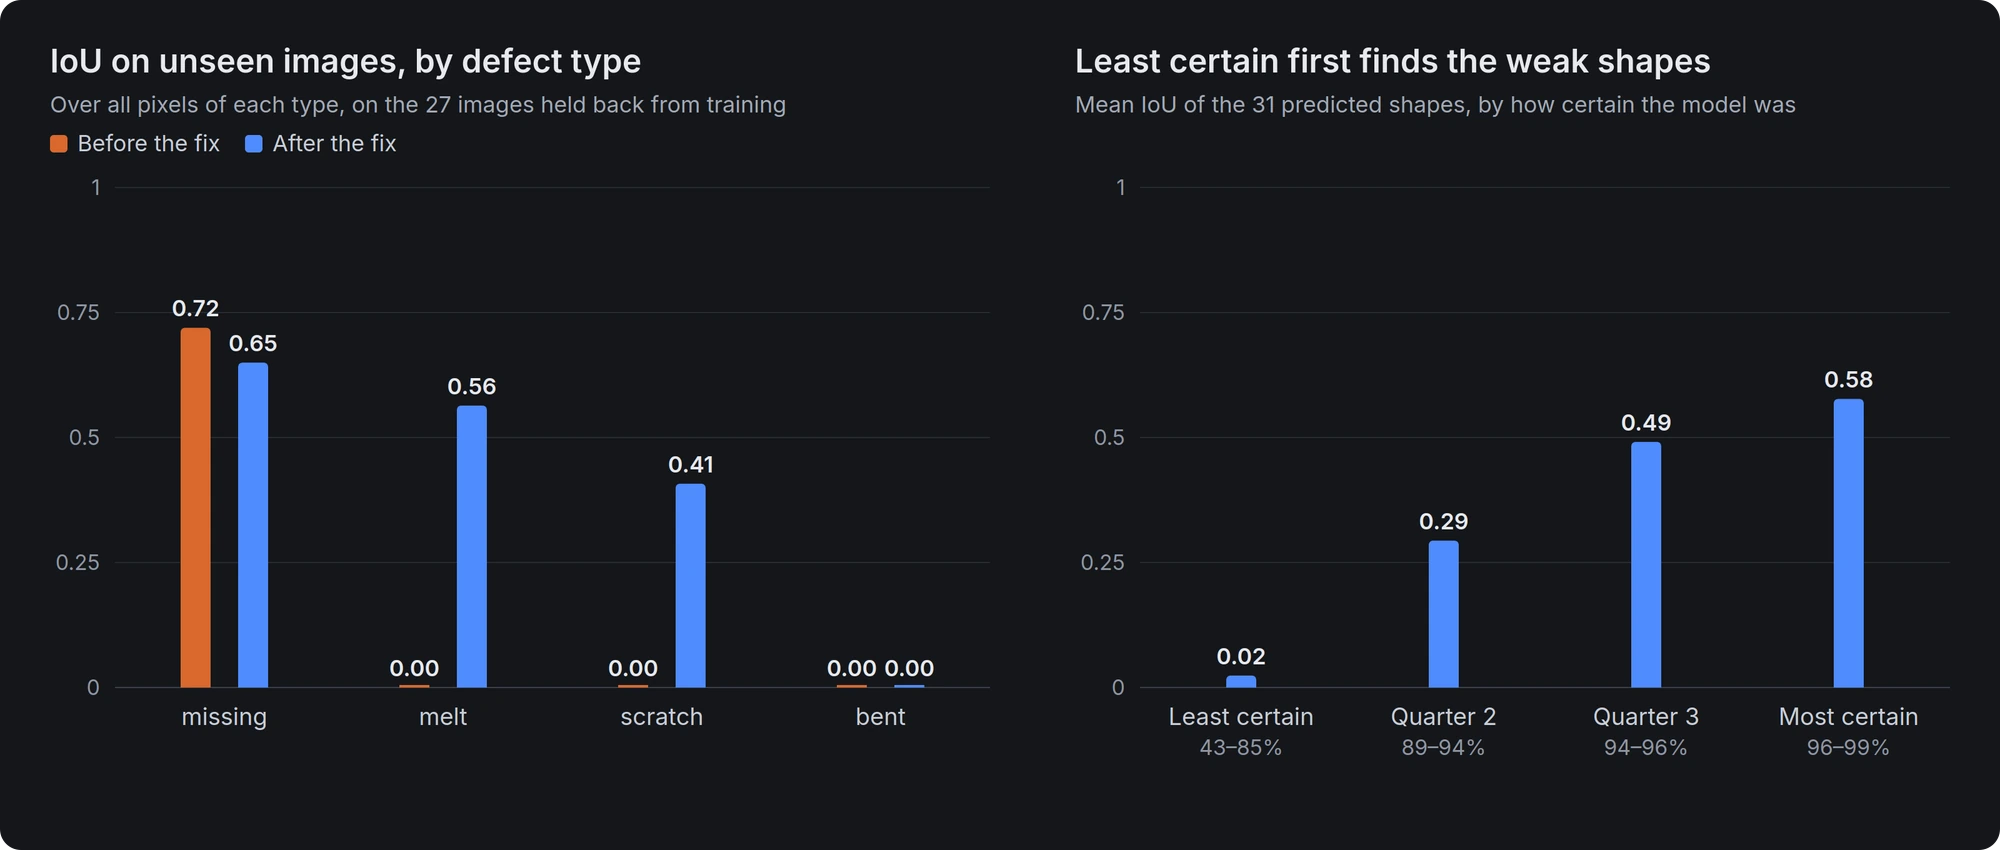
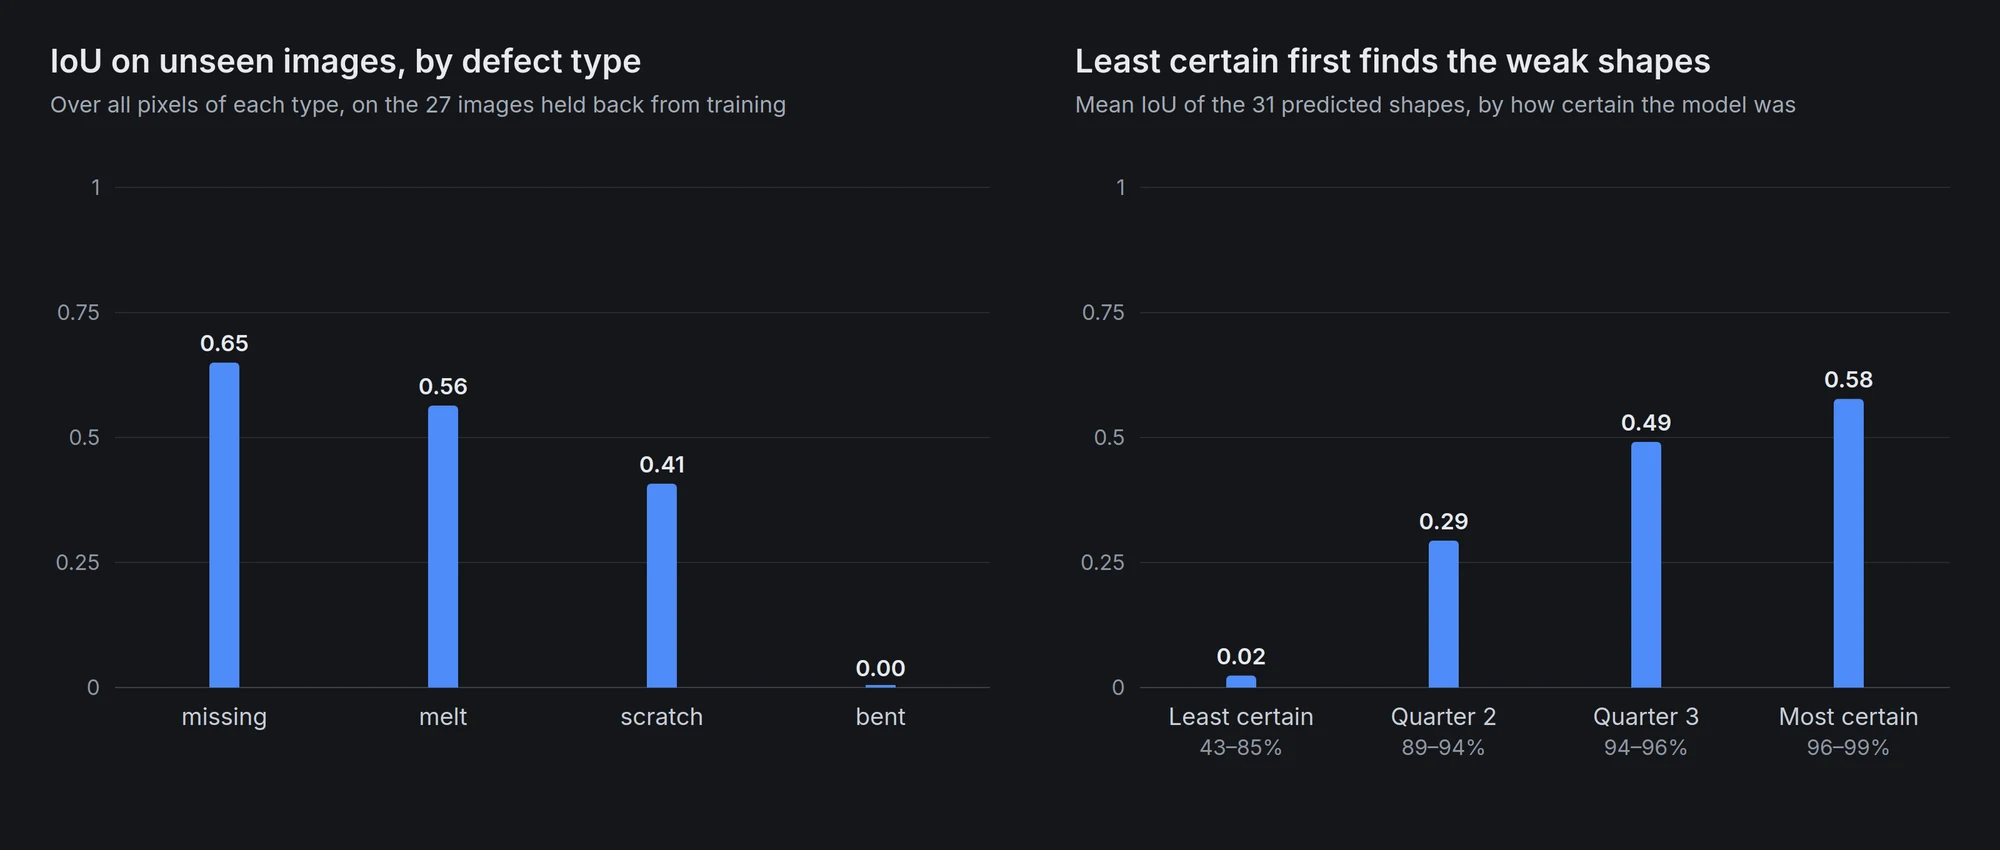
Keep current results on the README and move the fix history to the docs
The page now reports what the model does, with what it gets wrong. The
figures are redrawn from the same run, without the run from before the fix.

The softmax and tiling story, with its before/after table and figures,
moves to docs/demo. The MKL crash moves to the changelog with its numbers,
next to a new entry for the tiling fix, which had none.

diff --git a/README.md b/README.md
@@ -66,42 +66,24 @@ Seamline is an Electron app: a React window, a Node main process, and a Python e
 - **Training goes through mySegLib.** The engine turns LabelMe JSON into masks and tiles, then trains through the library's `scripts/train.py`. The library also works on its own from YAML configs and the command line: see the [library guide](docs/LIBRARY.md).
 - **Labels are hard to lose.** Each save names its own folder and goes through one ordered queue, the last edit is flushed before the window closes, and a label file that can't be read is flagged and never written over.
 - **Geometry checked against an independent model.** The brush and eraser merge and cut polygons with Clipper. [A seeded test](app/e2e/geometry.spec.ts) runs 150 random paint and erase strokes and checks over 10,000 points against an independent model.
-- **A crash only some CPUs hit.** Local training died at random on one AVX-only Xeon: 6 of 12 runs. The cause was a race in MKL's first vector-math call. One single-threaded call at import brought real runs to 0 of 30, and a stress loop to 0 of 6000. The obvious workaround, `MKL_ENABLE_INSTRUCTIONS=AVX`, only hides it: the same loop still crashed 578 times.
 
 ## Tested on real images
 
-The screenshots, the demo and the numbers here come from real runs on circuit-board photos from the [VisA dataset](https://github.com/amazon-science/spot-diff): four defect types, 64 labelled images, and 27 held back that the model never saw. The model is a Unet with a ResNet-34 encoder, trained through the app on a GTX 1080 Ti. The scripts and results are in [`docs/demo`](docs/demo/README.md).
+The screenshots, the demo and these numbers come from real runs on circuit-board photos from the [VisA dataset](https://github.com/amazon-science/spot-diff): four defect types, 64 labelled images, and 27 held back that the model never saw. The model is a Unet with a ResNet-34 encoder, trained through the app on a GTX 1080 Ti. It's one run on a small set, so read the numbers as rough. The scripts and results, and what these runs changed in the training code, are in [`docs/demo`](docs/demo/README.md).
 
-Those runs found two silent bugs that synthetic tests had never shown:
+On the 27 unseen images, all with defects, the model found 24 of the 55 defects (at least half of each covered), proposed nothing on 6 images, and reached a mean IoU of 0.41 across the four defect types. That IoU is over all pixels of each type. The app's Best IoU of 0.669 reads higher because it's on validation tiles and averages background in.
 
-1. **Softmax applied twice.** The configs put softmax on the model's output, and the losses apply it again. Even a perfect prediction then cost 0.30 on the combined focal and Dice loss, and no pixel could look more than 40% certain. Validation loss sat just above that floor, at 0.315, and quality later collapsed.
-2. **Part of each image ignored.** Tiling dropped any leftover strip narrower than half a tile. On these 1404×1070 photos, 30% of every image never reached training, and on a 1500×1500 image it would be 53%.
+**Mostly right when it proposes.** Of the 31 proposals, 24 are on a defect and the right type, 3 are on a defect but the wrong type, and 4 are mostly off any defect. On 30 defect-free boards, it proposed only 1 shape.
 
-Both are fixed, with tests.
-
-![Training curves from the app: before the fix, quality collapses at epoch 24; after it, quality climbs and holds](docs/media/training-curves.webp)
-
-The table isolates the softmax fix on the 27 unseen images. Both models have the tiling fix and the same data and training settings. It's one run each, so small differences mean little.
-
-| On the 27 unseen images | Before | After |
-|---|---:|---:|
-| Real defects found (at least half covered) | 2 of 55 | **24 of 55** |
-| Images with no proposal at all | 25 of 27 | 6 of 27 |
-| Mean IoU across the four defect types | 0.18 | **0.41** |
-
-The IoU here is over all pixels of each type. The app's Best IoU of 0.669 reads higher because it's on validation tiles and averages background in.
-
-**Few false alarms.** Of the 31 proposals after the fix, 24 are on a defect and the right type, 3 are on a defect but the wrong type, and 4 are mostly off any defect. On 30 defect-free boards, it proposed only 1 shape.
-
-![The same unseen images with true labels, the model before the fix and the model after it](docs/media/before-after.webp)
+![The same unseen images with true labels and the model's proposals](docs/media/examples.webp)
 
 These examples are hand-picked to show each defect type, so they're better than average for all but bent pins. The averages are in the chart:
 
-![Bar charts: IoU by defect type before and after the fix, and IoU by certainty quarter](docs/media/results.webp)
+![Bar charts: IoU by defect type, and IoU by certainty quarter](docs/media/results.webp)
 
-The right-hand chart is why review goes least certain first. It's from only 31 shapes, so treat it as a direction rather than a measurement.
+The right-hand chart is the case for reviewing least certain first: low scores go with weak shapes (Spearman 0.73 between score and IoU). It's from only 31 shapes, so treat it as a direction rather than a measurement.
 
-**What it still gets wrong.** With 64 labelled images, the model misses more than half of the defects and never finds a bent pin. Missing-sensor IoU also dropped slightly, from 0.72 to 0.65: both models found the same two of the five images, and the new model's outline on one of them is looser. A defect the model misses has no shape to review, so you still need to look at the images. How much labelling time this saves hasn't been measured.
+**What it still gets wrong.** With 64 labelled images, the model misses more than half of the defects and never finds a bent pin. A defect the model misses has no shape to review, so you still need to look at the images. How much labelling time this saves hasn't been measured.
 
 ## Try it
 

diff --git a/docs/demo/README.md b/docs/demo/README.md
@@ -42,3 +42,28 @@ python docs/demo/clean_boards.py VisA/pcb1 demo/pcb demo/clean clean.json
 - A proposal counts as on a defect when at least half of it lies on a true defect of any type.
 - 27 images and 31 predicted shapes is a small sample, so small differences mean little.
 - "Before" is the same run on the code from before the softmax fix, with the tiling fix already in. Its validation IoU peaked at 0.389 and collapsed to 0.196 by epoch 24. After the fix it reached 0.669.
+
+## What these runs changed
+
+These runs found two silent bugs that synthetic tests had never shown:
+
+1. **Softmax applied twice.** The configs put softmax on the model's output, and the losses apply it again. Even a perfect prediction then cost 0.30 on the combined focal and Dice loss, and no pixel could look more than 40% certain. Validation loss sat just above that floor, at 0.315, and quality later collapsed.
+2. **Part of each image ignored.** Tiling dropped any leftover strip narrower than half a tile. On these 1404×1070 photos, 30% of every image never reached training, and on a 1500×1500 image it would be 53%.
+
+Both are fixed, with tests.
+
+![Training curves from the app: before the fix, quality collapses at epoch 24; after it, quality climbs and holds](../media/training-curves.webp)
+
+The table isolates the softmax fix on the 27 unseen images. Both models have the tiling fix and the same data and training settings. It's one run each, so small differences mean little.
+
+| On the 27 unseen images | Before | After |
+|---|---:|---:|
+| Real defects found (at least half covered) | 2 of 55 | **24 of 55** |
+| Images with no proposal at all | 25 of 27 | 6 of 27 |
+| Mean IoU across the four defect types | 0.18 | **0.41** |
+
+![The same unseen images with true labels, the model before the fix and the model after it](../media/before-after.webp)
+
+![Bar charts: IoU by defect type before and after the fix, and IoU by certainty quarter](../media/results-before-after.webp)
+
+Missing-sensor IoU also dropped slightly, from 0.72 to 0.65: both models found the same two of the five images, and the new model's outline on one of them is looser.

diff --git a/docs/CHANGELOG.md b/docs/CHANGELOG.md
@@ -19,7 +19,12 @@ and this project adheres to [Semantic Versioning](https://semver.org/spec/v2.0.0
   apply softmax themselves. A perfect prediction still cost 0.30, and small classes could collapse
   into background. `activation` now applies at inference and export only. Saved models still load,
   but retrain any model trained before this fix.
-- Local training could die with exit code -4 on CPUs with AVX but no AVX2
+- Tiling dropped any leftover strip narrower than half a tile, so 30% of a 1404×1070 photo never
+  reached training, and 53% of a 1500×1500 image. Tiles now cover each side fully.
+- Local training could die with exit code -4 on CPUs with AVX but no AVX2: a race in MKL's first
+  vector-math call. One single-threaded call at import took real runs from 6 of 12 crashing to 0 of
+  30, and a stress loop to 0 of 6000. `MKL_ENABLE_INSTRUCTIONS=AVX` only hides it: the same loop
+  still crashed 578 times.
 
 ## [0.1.0] - 2026-11-05
 
